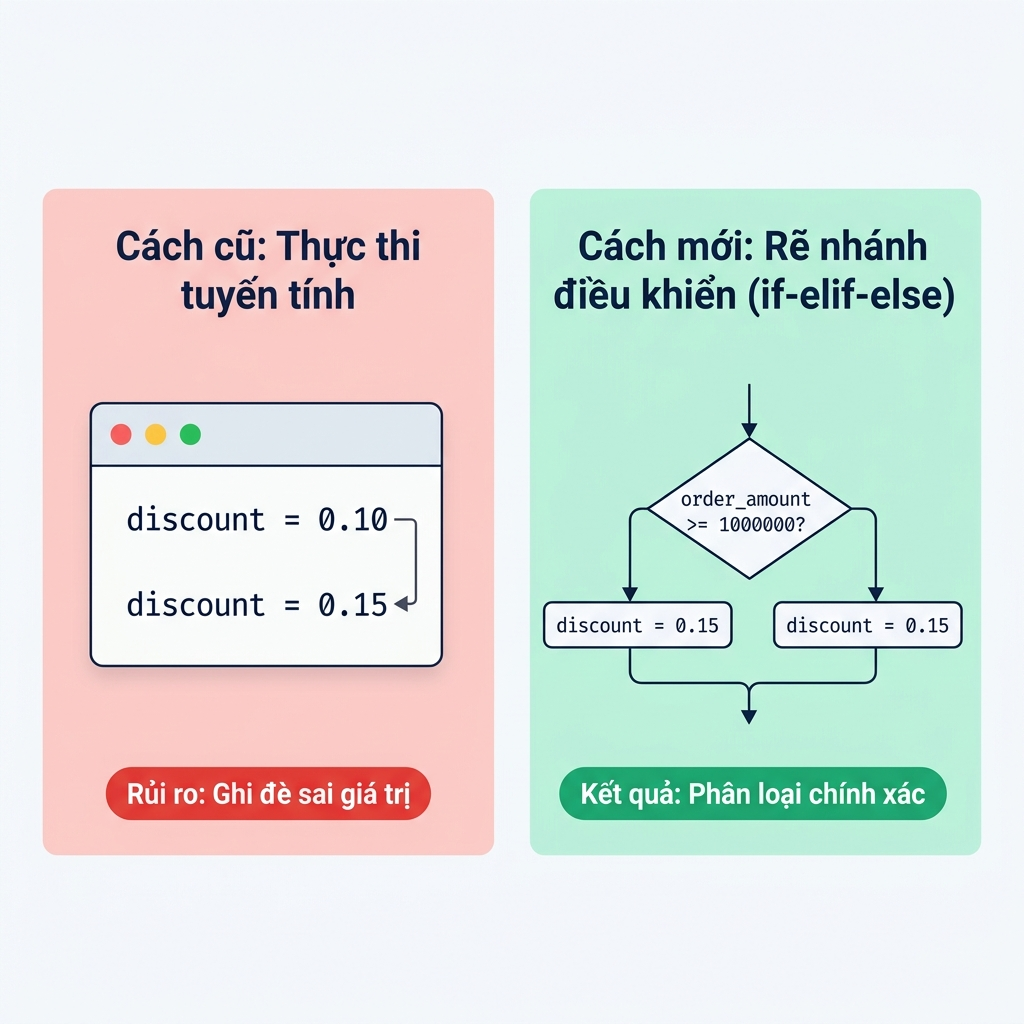
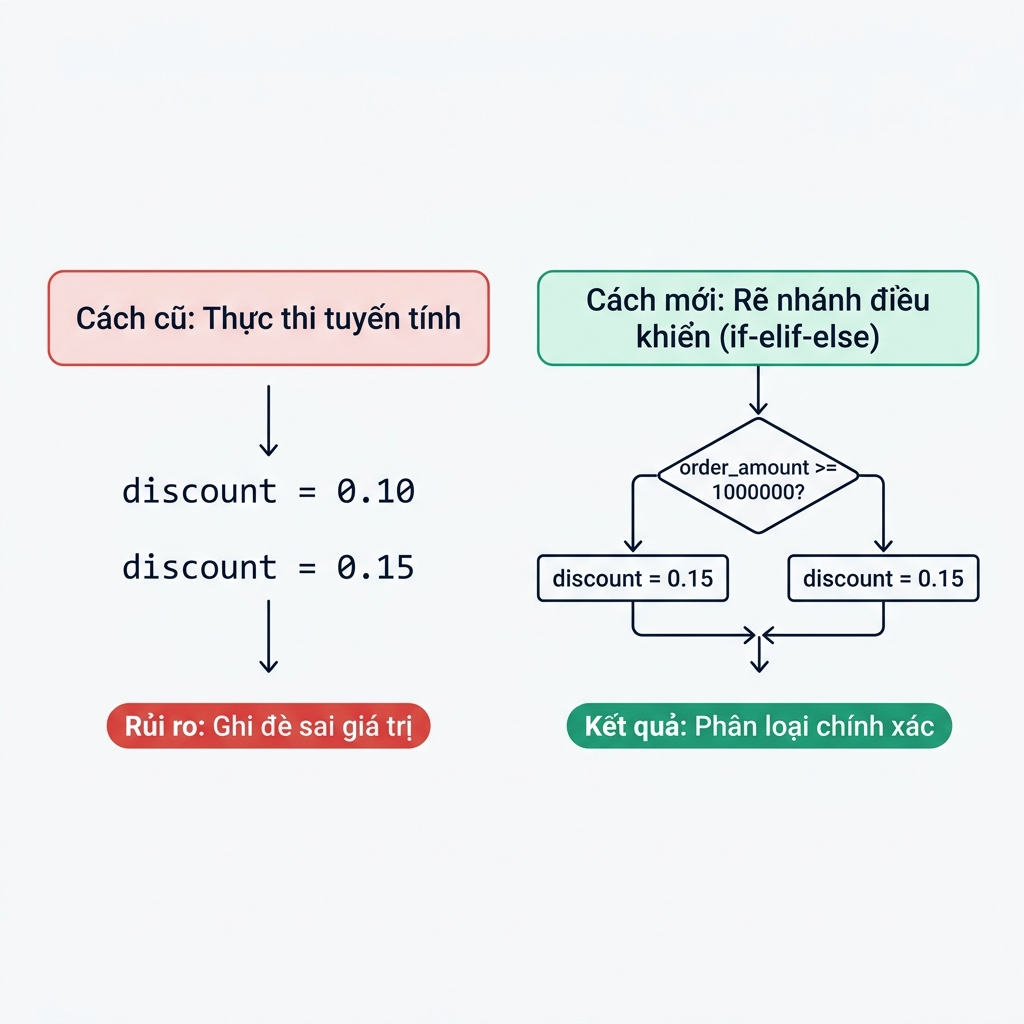
fix: update image styling to full responsive width without border or text cropping

diff --git a/output/pms/Lập_trình_Python/Session 04 - Toán tử số học, logic và Cấu trúc rẽ nhánh/Lesson 03 - Cấu trúc rẽ nhánh điều khiển với if, elif và else/Bài đọc/reading.html b/output/pms/Lập_trình_Python/Session 04 - Toán tử số học, logic và Cấu trúc rẽ nhánh/Lesson 03 - Cấu trúc rẽ nhánh điều khiển với if, elif và else/Bài đọc/reading.html
@@ -239,7 +239,7 @@
         <!-- Section 1: Đặt vấn đề -->
         <section id="section-1" class="mb-10 scroll-mt-24">
           <h2 class="font-montserrat font-bold text-2xl text-slate-900 mb-4">1. Thách thức khi xử lý logic phân loại đơn hàng không có rẽ nhánh điều khiển</h2>
-          <div class="space-y-4"><p class="text-slate-600 mb-4 leading-relaxed">Trong hệ thống xử lý đơn hàng của một sàn thương mại điện tử như Shopee hay Lazada, việc tự động tính toán tỷ lệ chiết khấu và ưu đãi vận chuyển dựa trên giá trị đơn hàng là nhiệm vụ cốt lõi. Nếu chương trình máy tính chỉ chạy các câu lệnh tuần tự từ trên xuống dưới mà không có khả năng kiểm tra điều kiện để chọn nhánh xử lý phù hợp, tất cả các mức giảm giá sẽ bị áp dụng dồn dập vào cùng một đơn hàng.</p><p class="text-slate-600 mb-4 leading-relaxed">Giả sử hệ thống quy định: Đơn hàng từ 1.000.000 VNĐ được giảm 15%, đơn hàng từ 500.000 VNĐ được giảm 10%. Nếu mã nguồn viết theo lối thực thi tuyến tính không có rẽ nhánh loại trừ, một đơn hàng giá trị 1.500.000 VNĐ sẽ lần lượt bị trừ 10% rồi lại tiếp tục trừ 15%, gây thất thoát tài chính nghiêm trọng cho doanh nghiệp. Ngược lại, nếu viết các điều kiện rời rạc không đúng cấu trúc, chương trình sẽ tốn chi phí tính toán dư thừa do phải kiểm tra toàn bộ các quy tắc dù điều kiện đầu tiên đã thỏa mãn.</p><div class="my-6 text-center"><img src="images/lesson03_if_else_diagram.png" alt="So sánh luồng thực thi tuyến tính và rẽ nhánh điều khiển" class="w-full max-w-4xl aspect-[16/9] object-cover mx-auto rounded-xl border border-slate-200 shadow-sm" /><p class="text-center text-sm text-slate-500 italic mt-3">Hình 1.1: So sánh giữa luồng thực thi tuyến tính thụ động và luồng rẽ nhánh điều khiển thông minh trong Python.</p></div><p class="text-slate-600 mb-4 leading-relaxed">Giải pháp cho vấn đề này là áp dụng cấu trúc rẽ nhánh điều khiển (<code class="px-1.5 py-0.5 rounded bg-slate-100 text-rikkei-red font-mono text-sm">if</code>, <code class="px-1.5 py-0.5 rounded bg-slate-100 text-rikkei-red font-mono text-sm">elif</code>, <code class="px-1.5 py-0.5 rounded bg-slate-100 text-rikkei-red font-mono text-sm">else</code>). Cấu trúc này cho phép chương trình đưa ra quyết định thông minh, chỉ thực thi khối lệnh tương ứng với điều kiện thỏa mãn đầu tiên và bỏ qua hoàn toàn các nhánh không liên quan.</p></div>
+          <div class="space-y-4"><p class="text-slate-600 mb-4 leading-relaxed">Trong hệ thống xử lý đơn hàng của một sàn thương mại điện tử như Shopee hay Lazada, việc tự động tính toán tỷ lệ chiết khấu và ưu đãi vận chuyển dựa trên giá trị đơn hàng là nhiệm vụ cốt lõi. Nếu chương trình máy tính chỉ chạy các câu lệnh tuần tự từ trên xuống dưới mà không có khả năng kiểm tra điều kiện để chọn nhánh xử lý phù hợp, tất cả các mức giảm giá sẽ bị áp dụng dồn dập vào cùng một đơn hàng.</p><p class="text-slate-600 mb-4 leading-relaxed">Giả sử hệ thống quy định: Đơn hàng từ 1.000.000 VNĐ được giảm 15%, đơn hàng từ 500.000 VNĐ được giảm 10%. Nếu mã nguồn viết theo lối thực thi tuyến tính không có rẽ nhánh loại trừ, một đơn hàng giá trị 1.500.000 VNĐ sẽ lần lượt bị trừ 10% rồi lại tiếp tục trừ 15%, gây thất thoát tài chính nghiêm trọng cho doanh nghiệp. Ngược lại, nếu viết các điều kiện rời rạc không đúng cấu trúc, chương trình sẽ tốn chi phí tính toán dư thừa do phải kiểm tra toàn bộ các quy tắc dù điều kiện đầu tiên đã thỏa mãn.</p><div class="my-6 text-center"><img src="images/lesson03_if_else_diagram.png" alt="So sánh luồng thực thi tuyến tính và rẽ nhánh điều khiển" class="w-full h-auto mx-auto rounded-xl" /><p class="text-center text-sm text-slate-500 italic mt-3">Hình 1.1: So sánh giữa luồng thực thi tuyến tính thụ động và luồng rẽ nhánh điều khiển thông minh trong Python.</p></div><p class="text-slate-600 mb-4 leading-relaxed">Giải pháp cho vấn đề này là áp dụng cấu trúc rẽ nhánh điều khiển (<code class="px-1.5 py-0.5 rounded bg-slate-100 text-rikkei-red font-mono text-sm">if</code>, <code class="px-1.5 py-0.5 rounded bg-slate-100 text-rikkei-red font-mono text-sm">elif</code>, <code class="px-1.5 py-0.5 rounded bg-slate-100 text-rikkei-red font-mono text-sm">else</code>). Cấu trúc này cho phép chương trình đưa ra quyết định thông minh, chỉ thực thi khối lệnh tương ứng với điều kiện thỏa mãn đầu tiên và bỏ qua hoàn toàn các nhánh không liên quan.</p></div>
           <div class="my-6"></div>
         </section>
 

diff --git a/agents/creators/reading_creator.py b/agents/creators/reading_creator.py
@@ -449,7 +449,7 @@ MANDATORY RULES & DIRECTIVES:
 
 3. 2D FLAT VECTOR DIAGRAM / IMAGE STANDARD (SECTION 1):
    - In Section 1, MUST include a 2D Flat Vector Technical Illustration / Diagram (16:9 widescreen ratio) depicting a direct comparison (e.g. Legacy manual approach vs New optimized approach).
-   - Supports clean 2D Flat Vector Images (`<img src="images/..." alt="..." class="w-full max-w-4xl aspect-[16/9] object-cover mx-auto rounded-xl border border-slate-200 shadow-sm" />`) created via image generation tools following `image_prompt_standard` skill, or clean 16:9 SVG (`viewBox="0 0 800 280"`).
+   - Supports clean 2D Flat Vector Images (`<img src="images/..." alt="..." class="w-full h-auto mx-auto rounded-xl" />`) created via image generation tools following `image_prompt_standard` skill, or clean 16:9 SVG (`viewBox="0 0 800 280"`). No outer border, no shadow boxes, no forced object-cover cropping that clips text.
    - Ensures ultra-high visual quality, prevents UI text truncation or layout breakage, and delivers modern 2D flat technical graphics.
 {image_skill}
 
